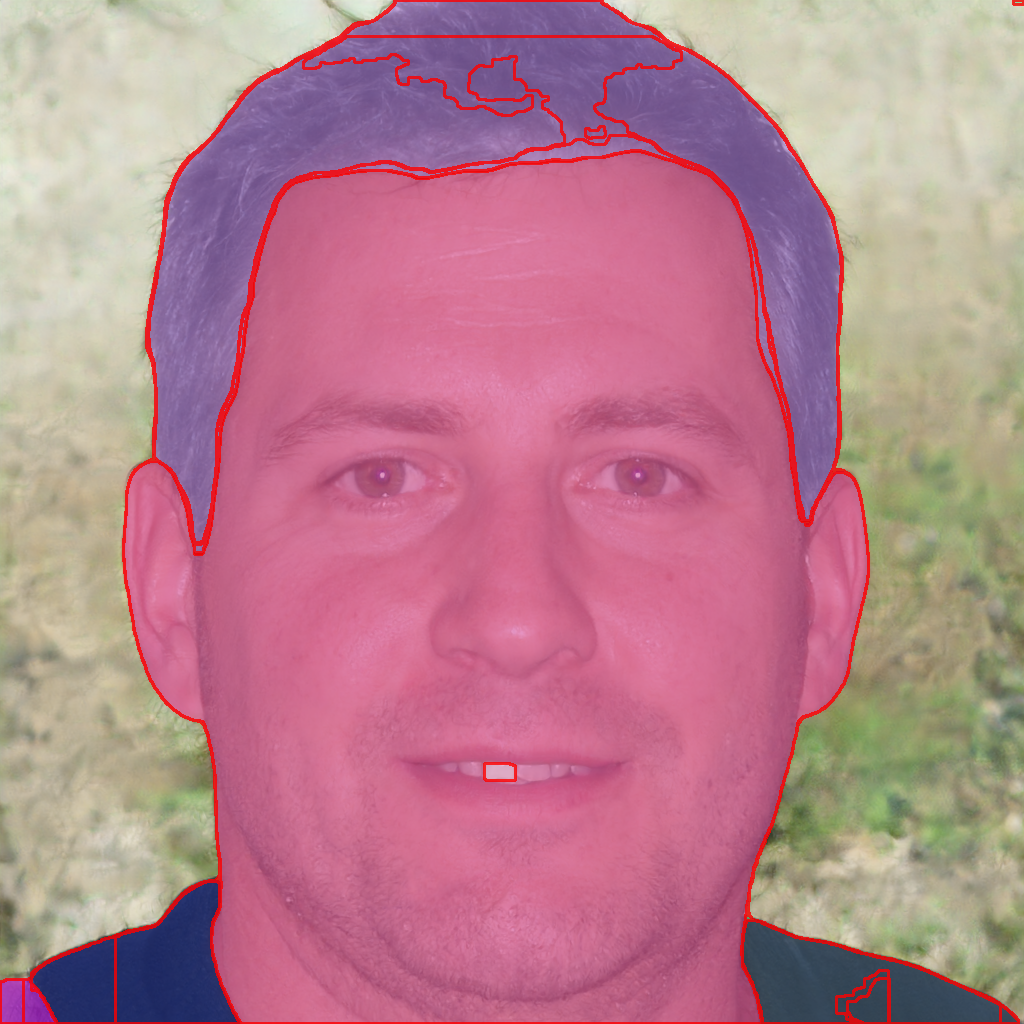
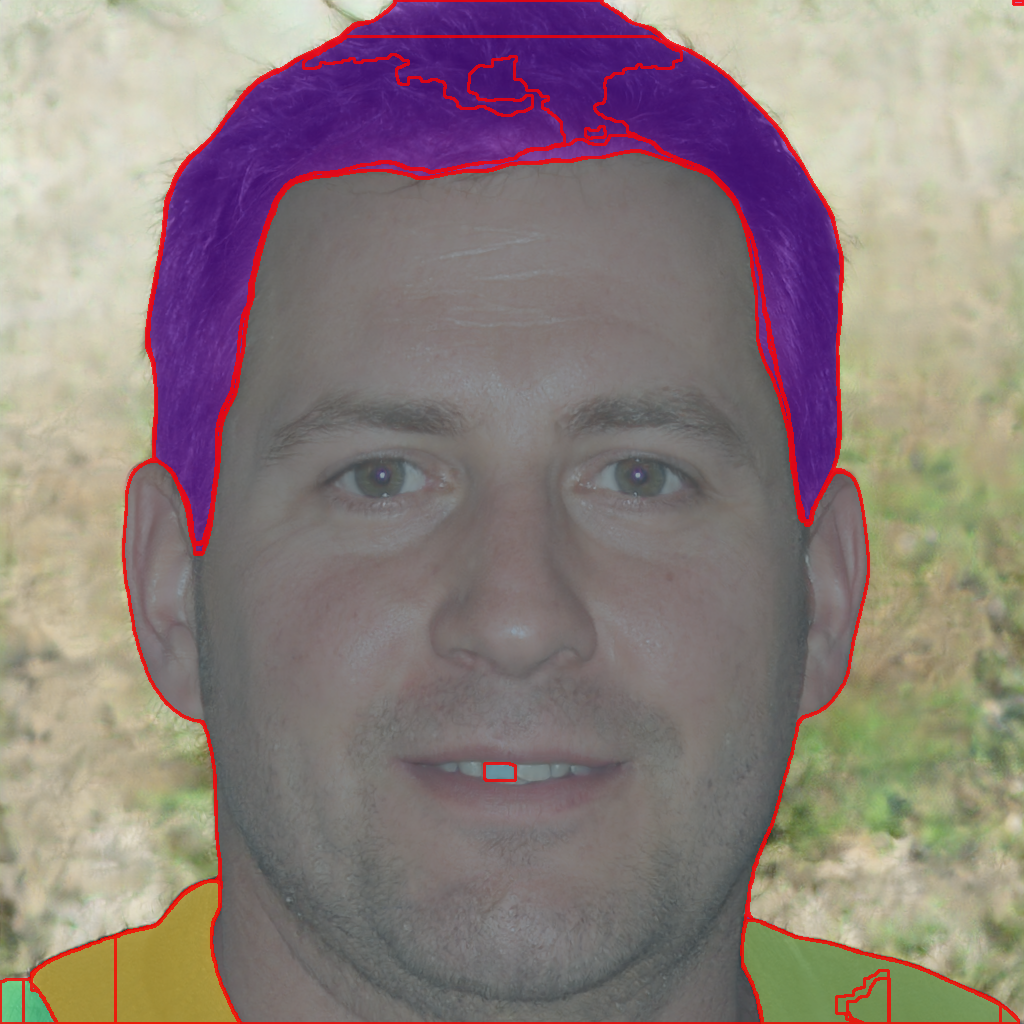
Fixes to make it work outside the FastSAM directory

diff --git a/testing_fast_sam.py b/testing_fast_sam.py
@@ -1,7 +1,13 @@
-from fastsam import FastSAM, FastSAMPrompt
+import sys
+import os
+
+# Add the parent directory of FastSAM to the module search path
+sys.path.append(os.path.abspath('FastSAM'))
+
+from FastSAM.fastsam import FastSAM, FastSAMPrompt
 
 model = FastSAM('FastSAM/weights/FastSAM-x.pt')
-IMAGE_PATH = 'FastSAM/images/1.S.W.M.png'
+IMAGE_PATH = 'Synthetic faces/1.S.W.M.png'
 DEVICE = 'cpu'
 everything_results = model(IMAGE_PATH, device=DEVICE, retina_masks=True, imgsz=1024, conf=0.4, iou=0.9,)
 prompt_process = FastSAMPrompt(IMAGE_PATH, everything_results, device=DEVICE)
@@ -9,4 +15,4 @@ prompt_process = FastSAMPrompt(IMAGE_PATH, everything_results, device=DEVICE)
 # everything prompt
 ann = prompt_process.everything_prompt()
 
-prompt_process.plot(annotations=ann,output_path='FastSAM/output/1.S.W.M.png',)
+prompt_process.plot(annotations=ann,output_path='output/1.S.W.M.png',)
